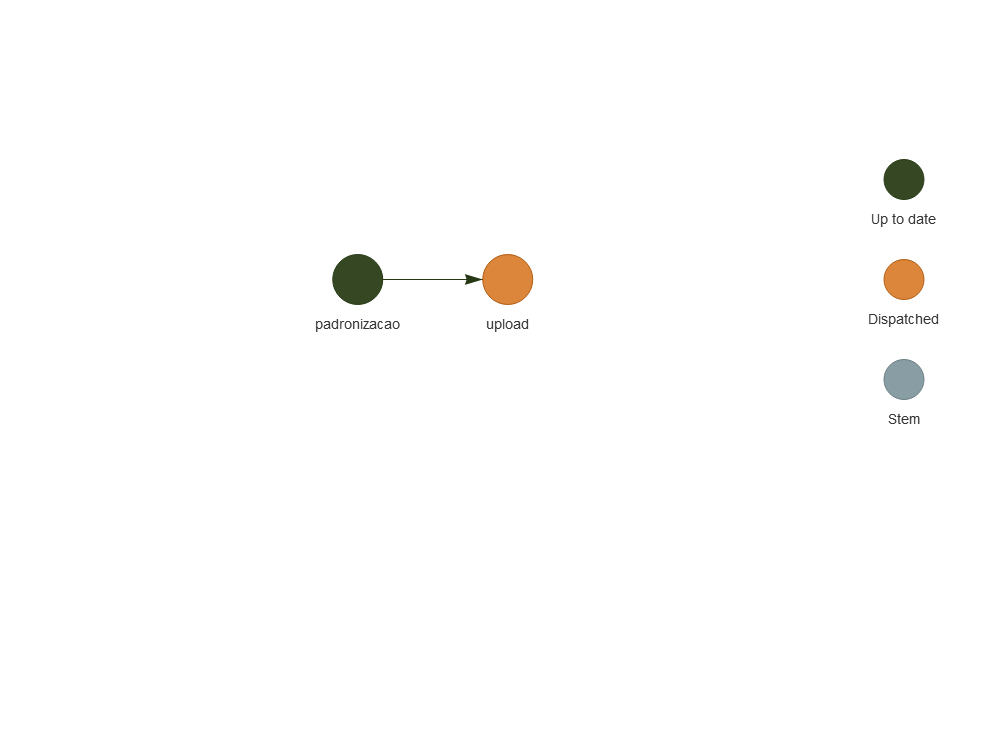
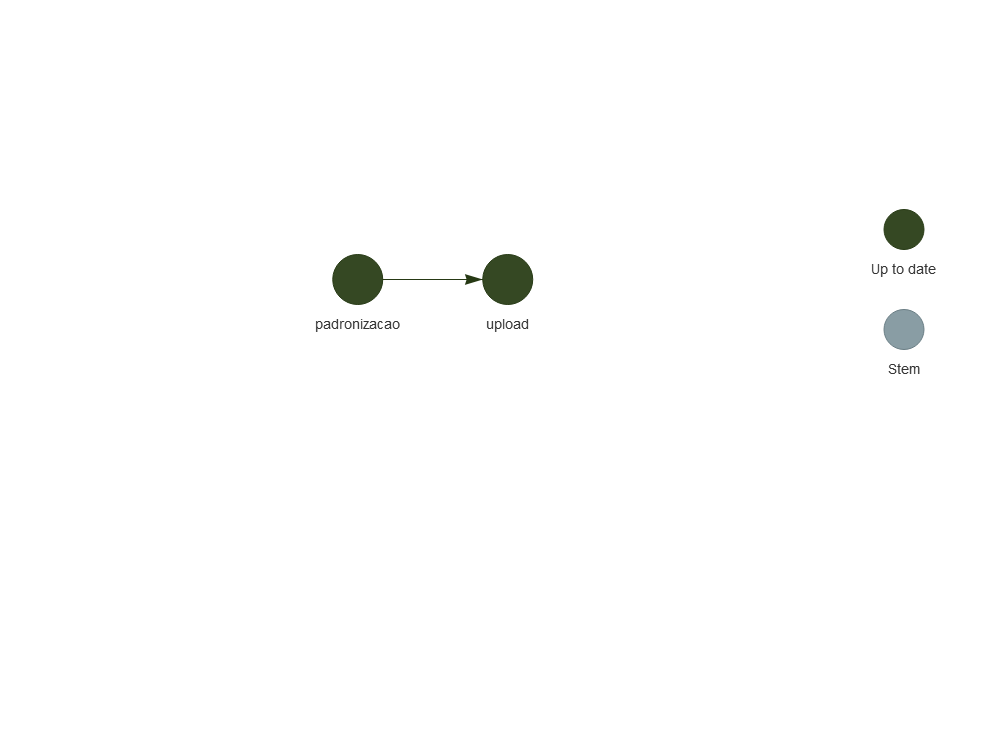
atualizando readme e fazendo upload

Changed region(s): [[0.868, 0.2164, 0.93, 0.5874], [0.465, 0.3401, 0.558, 0.4328]]

diff --git a/README.md b/README.md
@@ -77,8 +77,6 @@ source("_targets.R")
 tar_visnetwork(targets_only = TRUE)
 ```
 
-    #> - The project is out-of-sync -- use `]8;;ide:run:renv::status()renv::status()]8;;` for details.
-
 <img src="figures/README-graph-outdated-1.png" width="100%" />
 
 Note que todos os vértices do grafo estão marcados como desatualizados.
@@ -99,8 +97,6 @@ para checar se os vértices estão atualizados:
 ``` r
 tar_visnetwork(targets_only = TRUE)
 ```
-
-    #> - The project is out-of-sync -- use `]8;;ide:run:renv::status()renv::status()]8;;` for details.
 
 <img src="figures/README-graph-updated-1.png" width="100%" />
 
